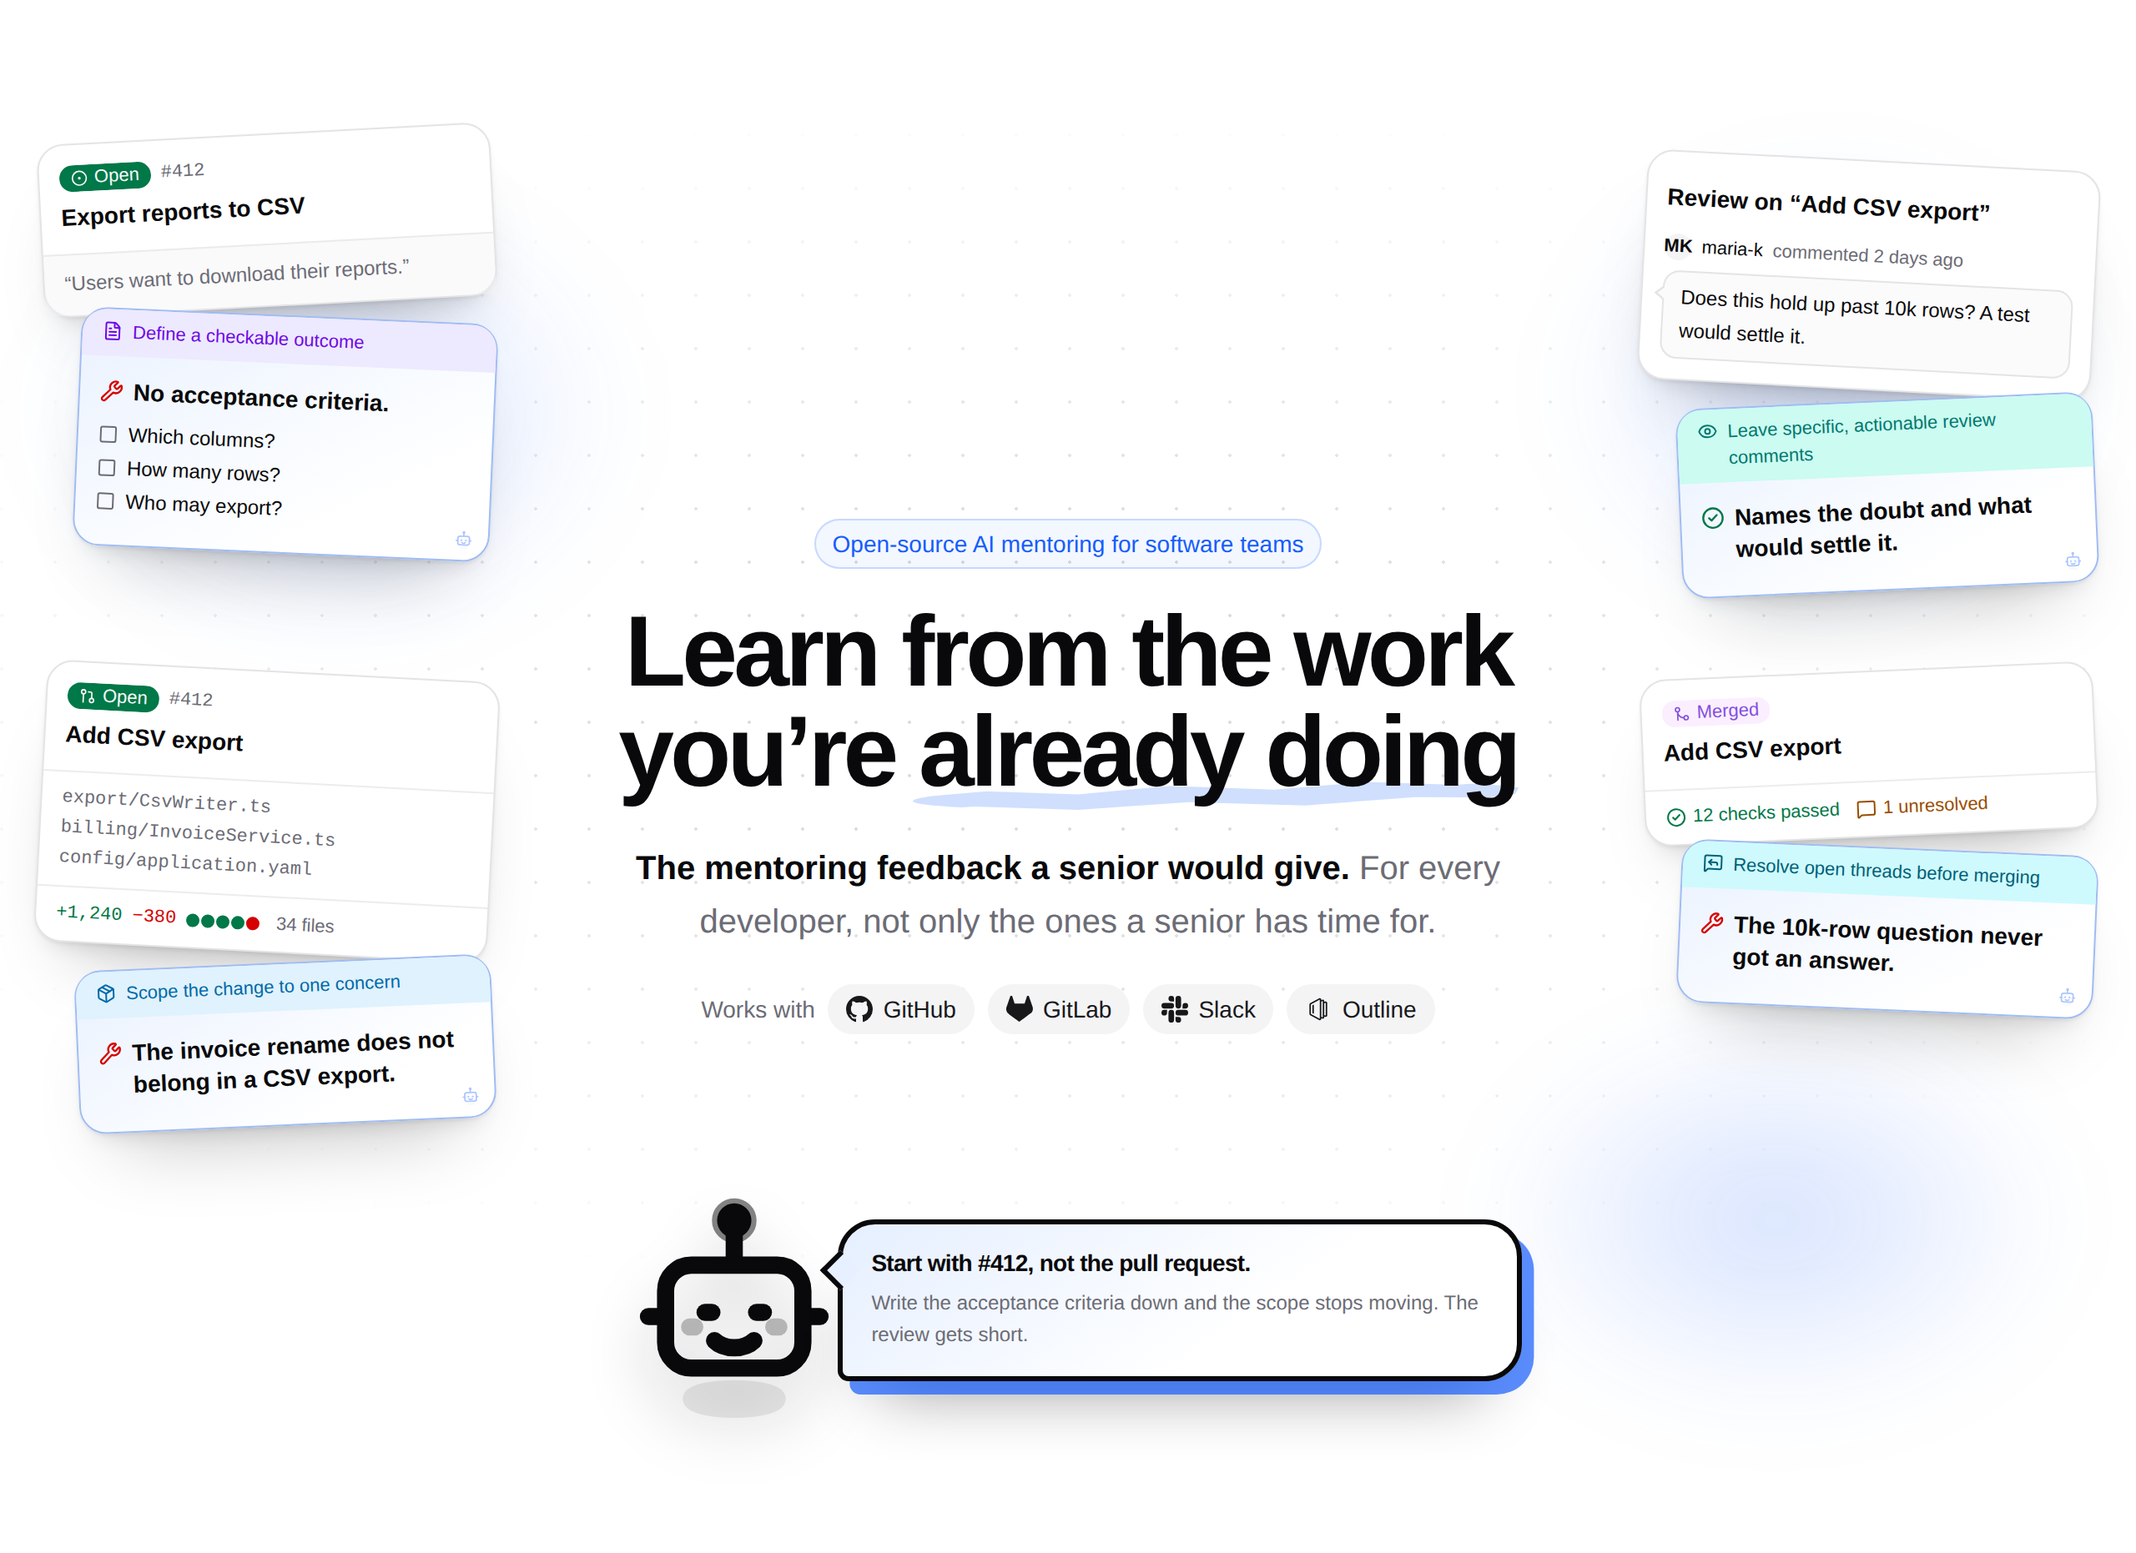
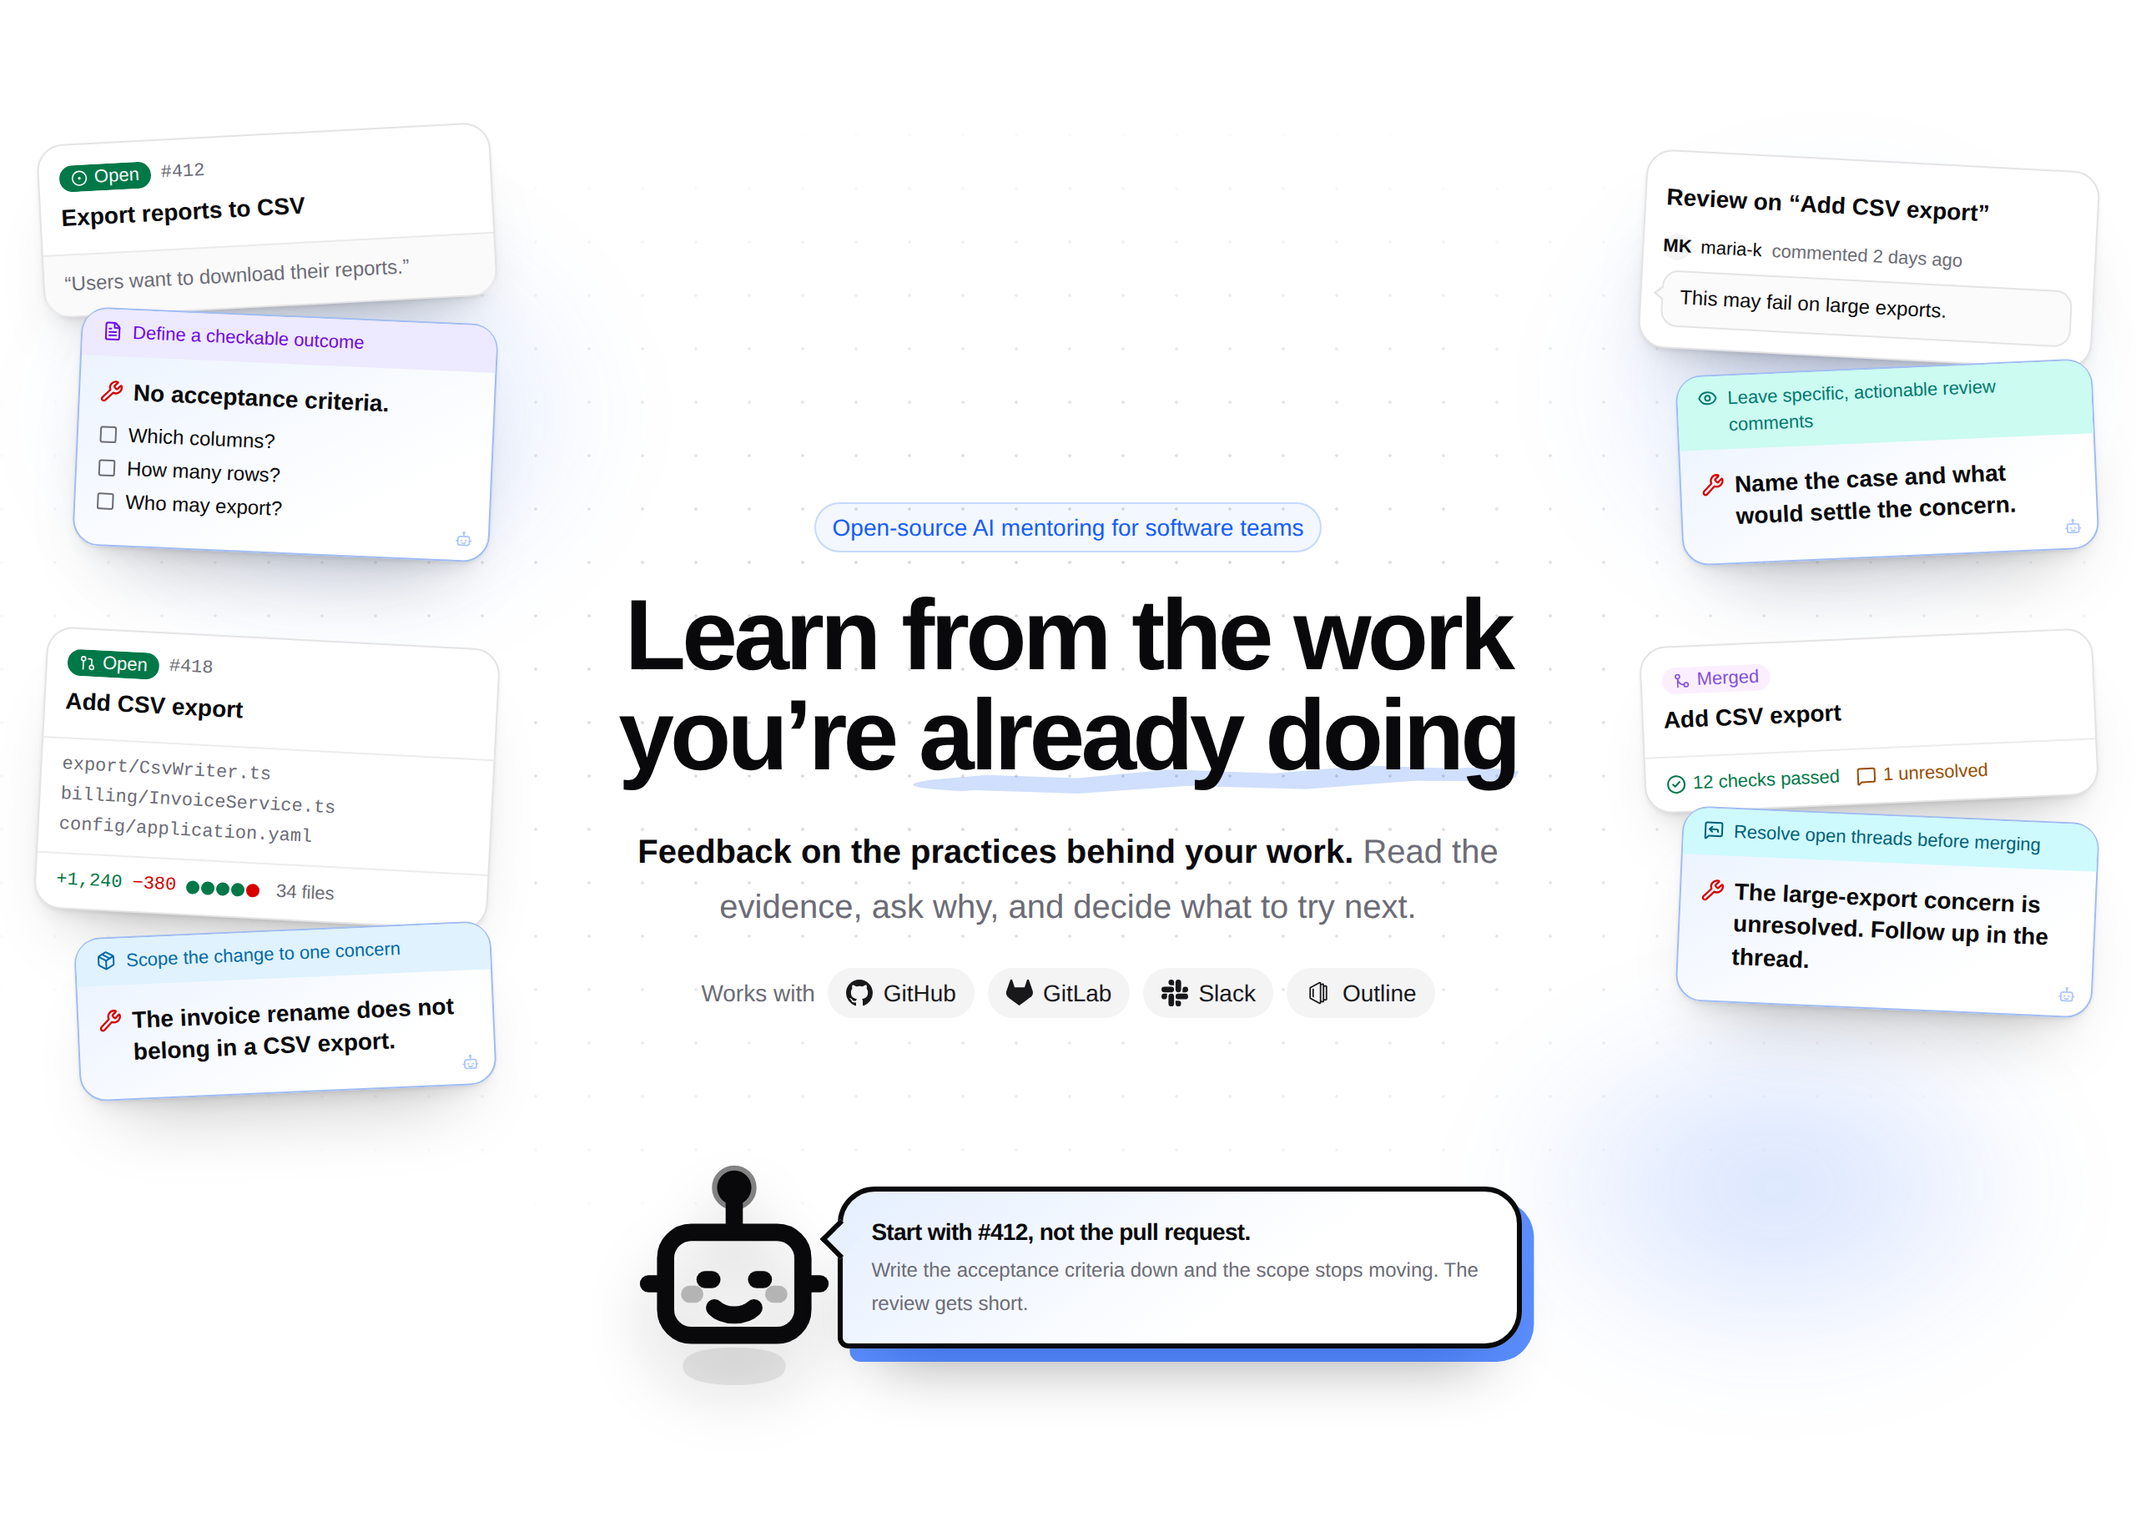
fix(webapp): make public feedback examples match the product

diff --git a/webapp/src/components/site/landing/LandingHeroSection.tsx b/webapp/src/components/site/landing/LandingHeroSection.tsx
@@ -114,7 +114,6 @@ export function HeroScene() {
 						group={groups.issues}
 						practice="Define a checkable outcome"
 						lead="No acceptance criteria."
-						stance="gap"
 						rotate={2.5}
 					>
 						<ul className="flex flex-col gap-1">
@@ -129,7 +128,7 @@ export function HeroScene() {
 				</LandingCluster>
 
 				<LandingCluster placement={{ column: 1, row: 2, offset: "1rem" }} delay={0.08}>
-					<LandingWorkCard state="ready" reference="#412" title="Add CSV export" rotate={3}>
+					<LandingWorkCard state="ready" reference="#418" title="Add CSV export" rotate={3}>
 						<ul className="flex flex-col gap-0.5 border-t border-border/70 px-3 py-2">
 							{["export/CsvWriter.ts", "billing/InvoiceService.ts", "config/application.yaml"].map(
 								(path) => (
@@ -148,7 +147,6 @@ export function HeroScene() {
 						group={groups.packaging}
 						practice="Scope the change to one concern"
 						lead="The invoice rename does not belong in a CSV export."
-						stance="gap"
 						rotate={-2.5}
 					/>
 				</LandingCluster>
@@ -156,14 +154,13 @@ export function HeroScene() {
 				<LandingCluster placement={{ column: 3, row: 1, offset: "1rem" }} delay={0.16}>
 					<LandingWorkCard title="Review on “Add CSV export”" rotate={3}>
 						<ReviewComment author="maria-k" initials="MK">
-							Does this hold up past 10k rows? A test would settle it.
+							This may fail on large exports.
 						</ReviewComment>
 					</LandingWorkCard>
 					<LandingFeedbackCard
 						group={groups.reviewing}
 						practice="Leave specific, actionable review comments"
-						lead="Names the doubt and what would settle it."
-						stance="strength"
+						lead="Name the case and what would settle the concern."
 						rotate={-2.5}
 					/>
 				</LandingCluster>
@@ -182,8 +179,7 @@ export function HeroScene() {
 					<LandingFeedbackCard
 						group={groups.responding}
 						practice="Resolve open threads before merging"
-						lead="The 10k-row question never got an answer."
-						stance="gap"
+						lead="The large-export concern is unresolved. Follow up in the thread."
 						rotate={2.5}
 					/>
 				</LandingCluster>
@@ -246,10 +242,10 @@ export function LandingHeroSection({ onSignIn }: LandingHeroSectionProps) {
 						className="relative z-10 mt-6 max-w-xl text-lg leading-relaxed text-pretty sm:text-xl"
 					>
 						<span className="font-semibold text-foreground">
-							The mentoring feedback a senior would give.
+							Feedback on the practices behind your work.
 						</span>{" "}
 						<span className="text-muted-foreground">
-							For every developer, not only the ones a senior has time for.
+							Read the evidence, ask why, and decide what to try next.
 						</span>
 					</motion.p>
 
@@ -305,10 +301,10 @@ export function LandingHeroSection({ onSignIn }: LandingHeroSectionProps) {
 				<figure className={cn(styles.heroFigure, "relative w-full")}>
 					<HeroScene />
 					<figcaption className="sr-only">
-						One change through a project. Issue #412 has no acceptance criteria, so the pull request
-						grew to 34 files and picked up an unrelated rename. A reviewer asks a good question that
-						never gets answered before the merge. Hephaestus points back to the issue as the place
-						to start.
+						One change through a project. Issue #412 has no acceptance criteria. The pull request
+						grows to 34 files. A reviewer raises a vague concern about large exports. The pull
+						request merges with that thread unresolved. Hephaestus points back to the issue as the
+						place to start.
 					</figcaption>
 				</figure>
 			</motion.div>

diff --git a/webapp/src/components/site/landing/LandingFaqSection.tsx b/webapp/src/components/site/landing/LandingFaqSection.tsx
@@ -9,7 +9,7 @@ const faqItems = [
 	{
 		key: "practice-feedback",
 		q: "What is practice feedback?",
-		a: "It is feedback on how the work was done, not on the code itself. A practice is a defined way of working. Examples are scoping a change, writing an issue someone can act on, answering a reviewer, testing, handling failure, and changing dependencies deliberately. A curated set of practices ships with Hephaestus. Each piece of feedback names the practice it came from and points back to what it saw.",
+		a: "It is feedback on how the work was done. A practice is a defined way of working. Examples are scoping a change, writing an issue someone can act on, answering a reviewer, testing, handling failure, and changing dependencies deliberately. Feedback can cite code when a practice concerns it, such as testing or handling failure. A curated set of practices ships with Hephaestus. Each piece of feedback names the practice it came from and points back to what it saw.",
 	},
 	{
 		key: "replaces-review",
@@ -19,7 +19,7 @@ const faqItems = [
 	{
 		key: "feedback-location",
 		q: "Where does feedback appear?",
-		a: "Wherever you are most likely to read it: on the work itself, on your private practice profile, or in your next conversation with Heph. Feedback on the work waits for a workspace admin’s approval by default. Admins choose which repositories are connected. You can carry on the conversation in the web app or, when Slack is connected, in a direct message.",
+		a: "It can appear on the work itself, on your private practice profile, or in your next conversation with Heph. Feedback on the work waits for a workspace admin’s approval by default. Admins choose which repositories are connected. You can carry on the conversation in the web app or, when Slack is connected, in a direct message.",
 	},
 	{
 		key: "heph-conversation",

diff --git a/webapp/src/components/site/landing/LandingFeaturesSection.tsx b/webapp/src/components/site/landing/LandingFeaturesSection.tsx
@@ -117,7 +117,6 @@ export function LandingFeaturesSection() {
 								group={{ color: "amber", icon: "TestTube" }}
 								practice="Include tests with the change"
 								lead="A rounding bug is exactly what a test pins down."
-								stance="gap"
 								rotate={2.5}
 							/>
 						</LandingCluster>
@@ -125,19 +124,14 @@ export function LandingFeaturesSection() {
 						<LandingCluster placement={{ column: 2, row: 1, offset: "5rem" }} delay={0.08}>
 							<LandingWorkCard title="PaymentClient.java" rotate={3}>
 								<DiffLines
-									removed={["} catch (TimeoutException e) { }"]}
-									added={[
-										"} catch (TimeoutException e) {",
-										"  throw new PaymentUnavailable(e);",
-										"}",
-									]}
+									removed={["gateway.charge(order);"]}
+									added={["try {", "  gateway.charge(order);", "} catch (TimeoutException e) { }"]}
 								/>
 							</LandingWorkCard>
 							<LandingFeedbackCard
 								group={{ color: "rose", icon: "ShieldAlert" }}
 								practice="Handle errors instead of swallowing them"
-								lead="The caller now learns the payment did not go through."
-								stance="strength"
+								lead="Make the timeout visible to the caller instead of silently continuing."
 								rotate={-2.5}
 							/>
 						</LandingCluster>
@@ -157,7 +151,6 @@ export function LandingFeaturesSection() {
 								group={{ color: "violet", icon: "MessageCircle" }}
 								practice="Post clear status and blocker updates"
 								lead="Nobody can tell whether you are blocked."
-								stance="gap"
 								rotate={-3}
 							/>
 						</LandingCluster>

diff --git a/webapp/src/components/site/landing/LandingVisuals.tsx b/webapp/src/components/site/landing/LandingVisuals.tsx
@@ -168,23 +168,22 @@ interface LandingFeedbackCardProps {
 	/** A practice from the shipped catalog, named exactly as it is there. */
 	practice: string;
 	lead: string;
-	/** `strength` is a practice the work does well; `gap` is one it falls short of. */
-	stance: "strength" | "gap";
 	children?: ReactNode;
 	rotate?: number;
 }
+
+/** Feedback is written only from a Not met result, so every card shows that outcome. */
+const assessment = OUTCOME_DEFS.NOT_MET;
 
 export function LandingFeedbackCard({
 	group,
 	practice,
 	lead,
-	stance,
 	children,
 	rotate = 0,
 }: LandingFeedbackCardProps) {
 	const { Icon: GroupIcon, pill } = getGroupVisual(group.icon, group.color);
-	const assessment = OUTCOME_DEFS[stance === "strength" ? "MET" : "NOT_MET"];
-	const StanceIcon = assessment.icon;
+	const AssessmentIcon = assessment.icon;
 	return (
 		<div
 			className={cn(styles.atom, styles.slip)}
@@ -201,11 +200,8 @@ export function LandingFeedbackCard({
 			</p>
 			<div className="flex flex-col gap-2 p-3">
 				<p className="flex items-start gap-1.5 text-sm leading-snug font-semibold text-foreground">
-					<StanceIcon
-						className={cn(
-							"mt-0.5 size-3.5 shrink-0",
-							stance === "strength" ? "text-success" : "text-destructive",
-						)}
+					<AssessmentIcon
+						className="mt-0.5 size-3.5 shrink-0 text-destructive"
 						aria-label={assessment.label}
 					/>
 					{lead}

diff --git a/webapp/src/components/site/landing/LandingVisuals.stories.tsx b/webapp/src/components/site/landing/LandingVisuals.stories.tsx
@@ -11,7 +11,6 @@ const meta = {
 		group: { color: "sky", icon: "Package" },
 		practice: "Scope the change to one concern",
 		lead: "The invoice rename does not belong in a CSV export.",
-		stance: "gap",
 	},
 } satisfies Meta<typeof LandingFeedbackCard>;
 
@@ -19,25 +18,12 @@ export default meta;
 type Story = StoryObj<typeof meta>;
 
 /**
- * A practice the work falls short of. The stance is the card's only non-decorative icon, so it
+ * A practice the work falls short of. The outcome is the card's only non-decorative icon, so it
  * carries the accessible name the rest of the scene leaves to `aria-hidden`.
  */
 export const Gap: Story = {
 	play: async ({ canvas }) => {
 		await expect(canvas.getByLabelText(OUTCOME_DEFS.NOT_MET.label)).toBeVisible();
-	},
-};
-
-/** The same card for a practice the work does well; only the stance changes. */
-export const Strength: Story = {
-	args: {
-		group: { color: "teal", icon: "Eye" },
-		practice: "Leave specific, actionable review comments",
-		lead: "Names the doubt and what would settle it.",
-		stance: "strength",
-	},
-	play: async ({ canvas }) => {
-		await expect(canvas.getByLabelText(OUTCOME_DEFS.MET.label)).toBeVisible();
 	},
 };
 

diff --git a/webapp/src/components/site/about/AboutMissionSection.tsx b/webapp/src/components/site/about/AboutMissionSection.tsx
@@ -18,7 +18,7 @@ const FEATURES_DATA: FeatureData[] = [
 		title: "Talk it through",
 		description: "Ask Heph why, or disagree and decide the next step",
 		content:
-			"In chat Hephaestus goes by Heph. It draws on recent project activity, the feedback a developer has received, and any Slack messages or Outline documents their admins connected. You can chat in the web app or, when Slack is connected, in Slack.",
+			"In chat Hephaestus goes by Heph. It draws on recent project activity, the feedback a developer has received, and selected Outline documents their admins connected. It uses Slack channel messages only with the member’s permission. You can chat in the web app or, when Slack is connected, in Slack.",
 	},
 ];
 

diff --git a/webapp/src/components/site/about/AboutHeroSection.tsx b/webapp/src/components/site/about/AboutHeroSection.tsx
@@ -10,8 +10,8 @@ export function AboutHeroSection() {
 			</h1>
 			<p className="mx-auto max-w-2xl text-xl leading-relaxed text-pretty text-muted-foreground">
 				Hephaestus is an open-source AI mentor for software teams. It checks the work developers
-				already do against the practices their project cares about. Then it says what went well and
-				what to improve.
+				already do against the practices their project cares about. Then it says where the work
+				needs attention and suggests a next step.
 			</p>
 		</section>
 	);

diff --git a/README.md b/README.md
@@ -28,15 +28,15 @@ Every piece of feedback names its practice and points back to the reviewed work.
 Developers can ask why, disagree, or discuss the next step.
 
 <div align="center">
-  <img alt="An illustration of one change through a project. Issue #412 has no acceptance criteria. The pull request grows to 34 files. A reviewer asks a specific question. The pull request merges with that thread unresolved. Hephaestus points back to the issue." src="./docs/images/readme/landing-hero-dark.png#gh-dark-mode-only" width="1280">
-  <img alt="An illustration of one change through a project. Issue #412 has no acceptance criteria. The pull request grows to 34 files. A reviewer asks a specific question. The pull request merges with that thread unresolved. Hephaestus points back to the issue." src="./docs/images/readme/landing-hero-light.png#gh-light-mode-only" width="1280">
+  <img alt="An illustration of one change through a project. Issue #412 has no acceptance criteria. The pull request grows to 34 files. A reviewer raises a vague concern about large exports. The pull request merges with that thread unresolved. Hephaestus points back to the issue." src="./docs/images/readme/landing-hero-dark.png#gh-dark-mode-only" width="1280">
+  <img alt="An illustration of one change through a project. Issue #412 has no acceptance criteria. The pull request grows to 34 files. A reviewer raises a vague concern about large exports. The pull request merges with that thread unresolved. Hephaestus points back to the issue." src="./docs/images/readme/landing-hero-light.png#gh-light-mode-only" width="1280">
   <p><sub>An illustration of the feedback Hephaestus writes. See the <a href="https://docs.hephaestus.build/user/ai-code-review">user guide</a> for the real interface.</sub></p>
 </div>
 
 A mentor gives feedback on how you work.
 Examples include a coach on a university capstone or an experienced maintainer on an open-source project.
 There is never enough of that attention for everyone.
-Hephaestus does the routine part so that everyone gets some.
+Hephaestus can give more developers feedback on routine practices.
 People keep responsibility for the harder judgment and the relationships.
 
 > [!IMPORTANT]

diff --git a/.changeset/public-practice-feedback-examples.md b/.changeset/public-practice-feedback-examples.md
@@ -1,0 +1,5 @@
+---
+"hephaestus": patch
+---
+
+The landing page, About page and introduction now describe practice feedback as it works. The examples show where work needs attention and a concrete next step. Slack channel messages are described as used only with each member's permission.
